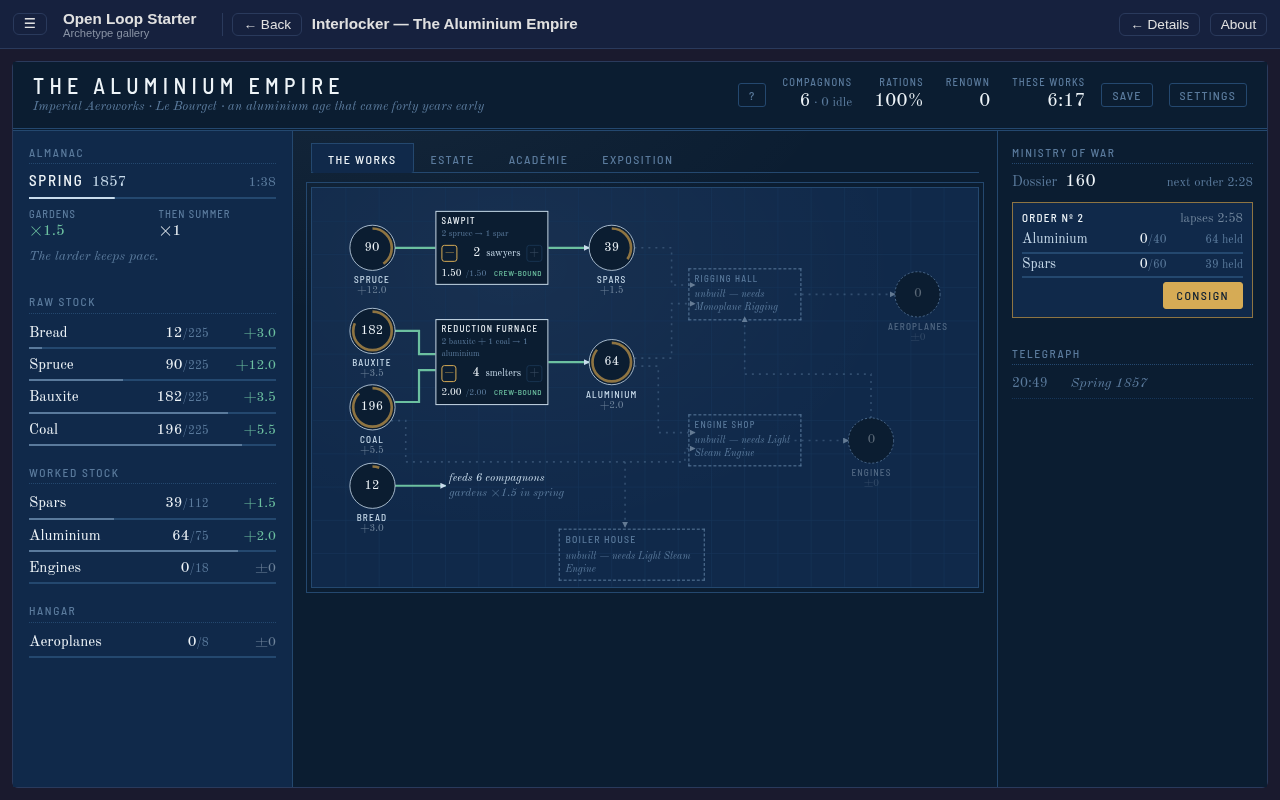
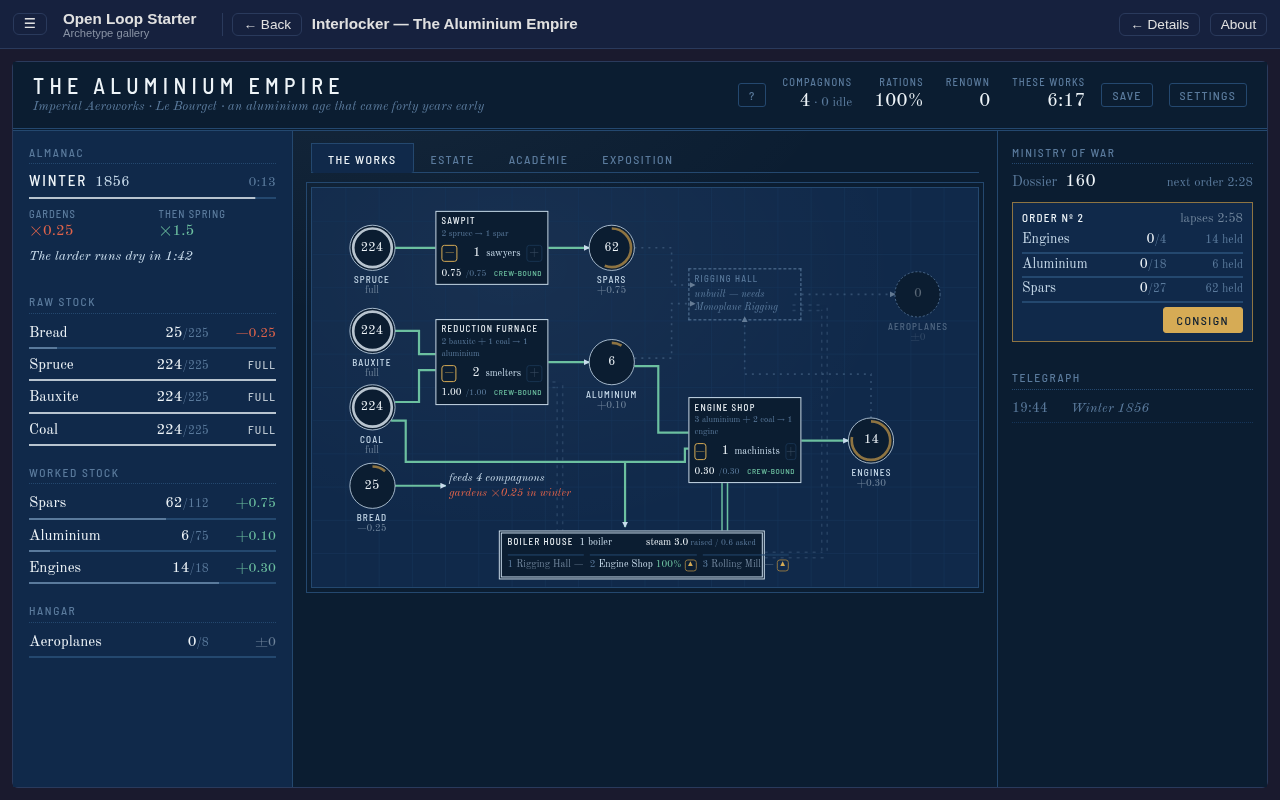
fix(showcase): re-record four stories' beats; interlocker's foreman gardens on winter stock
The beat windows and arc tables are re-recorded from today's probes.

tug: the recorded beats never matched the committed code (3aa285e prints
today's career line for line). chooseWave buys the tithe before troops, and
the opening horn's silver is the whole first tithe, so a tithing keep sends
no opening wave: at Grubb's Ford the Mire's yeomen pin the line 26 or 40
paces out until the mangonels the tithe pays for take it back. The docs now
follow that play. BALANCING states the opening as a trade of ground for
income, Known thin adds the frozen yeomen line, and the eight-seed figures
are re-measured.

interlocker: L'Intendance raises cités, which cost bread, in any season, so
a winter can open on an emptied larder. The foreman sized gardens on a full
larder and the crew ate at 0.40 through three winters. In winter it now
reads the bread in stock over the winter left. Hunger falls to a dip as a
winter opens; the charter probe's model error is 9.1% (was 10.1%). Beat
windows from the probe at 0.25–2 s ticks, saves re-written, shots recaptured.

skirmish, cycler: re-recorded only. Skirmish moved with the economy commits
after its beats were taken; cycler with the phase-clock fix (22d6cc9).

Closes #53

diff --git a/src/showcase/archetypes/interlocker/balance/_foreman.ts b/src/showcase/archetypes/interlocker/balance/_foreman.ts
@@ -6,9 +6,9 @@
  * with the shipping policies of `../modules/automation.ts`. The runner, `createForeman`,
  * works only what stays the player's; the arc runs it, and so does the games site's beat
  * script:
- * - it raises a market garden while the gardens at winter's yield, with a full larder,
- *   cannot carry the crew through a season, and a Boiler House while the boilers fall
- *   short of what is drawn;
+ * - it raises a market garden while the gardens at winter's yield cannot carry the crew
+ *   through a season on a full larder, or, in winter, through the rest of it on the bread
+ *   in stock; and a Boiler House while the boilers fall short of what is drawn;
  * - it delivers every Ministry order the bins can fill;
  * - it stages the Exposition once the jury sits and the medal reaches the one the spine
  *   predicts this empire's run shows (`medalFor`);
@@ -156,11 +156,12 @@ export function createForeman(start?: ArcOptions['start']): Foreman {
     const farm = works.buildings.getPurchasable('farm')!;
     const perFarm = (works.yieldEach('farm') / calendar.yield.value) * SEASON_YIELD.winter;
     const ration = works.workersTotal.value * UPKEEP_PER_WORKER;
-    if (
-      owned('farm') * perFarm + works.cap.bread.value / SEASON_SECONDS < ration &&
-      farm.canPurchase.value
-    )
-      farm.purchase(1);
+    // In winter the larder is what the steward's cités left of it, over the winter left.
+    const larder =
+      calendar.season.value === 'winter'
+        ? toNumber(works.res.bread.value) / Math.max(calendar.remaining.value, 1)
+        : works.cap.bread.value / SEASON_SECONDS;
+    if (owned('farm') * perFarm + larder < ration && farm.canPurchase.value) farm.purchase(1);
     const boiler = works.buildings.getPurchasable('boiler')!;
     if (works.steam.demand > works.steam.supply && boiler.visible.value && boiler.canPurchase.value)
       boiler.purchase(1);

diff --git a/src/showcase/archetypes/tug/manifest.ts b/src/showcase/archetypes/tug/manifest.ts
@@ -2,7 +2,7 @@ import type { ArchetypeManifest } from '@/types';
 
 /**
  * Beat windows are RECORDED from `balance/career-probe.ts` (seed 1) under the reference
- * marshal, never authored as targets; the first two are from that run's first battle. One
+ * marshal, never authored as targets; the first three are from that run's first battle. One
  * seeded run is the measurement, so each window is a single time. Re-record them after any
  * spine change.
  */
@@ -29,18 +29,18 @@ export const manifest: ArchetypeManifest = {
   beats: [
     {
       n: 1,
-      label: 'The opening horn: the lines meet at the middle',
-      recordedFireTimeRange: [20, 20],
+      label: "The opening horn: Fairhold tithes, and the Mire's yeomen pin the line",
+      recordedFireTimeRange: [22, 22],
     },
-    { n: 2, label: 'The engineers arrive: the first mangonel', recordedFireTimeRange: [120, 120] },
+    { n: 2, label: 'The engineers arrive: the first mangonel', recordedFireTimeRange: [130, 130] },
     { n: 3, label: "Grubb's Ford falls: the first victory", recordedFireTimeRange: [193, 193] },
-    { n: 4, label: 'The bowmen take the field at the Mudhole', recordedFireTimeRange: [385, 385] },
-    { n: 5, label: 'Fire-pots on the walls', recordedFireTimeRange: [1777, 1777] },
-    { n: 6, label: 'Lady Vesk, who answers every horn', recordedFireTimeRange: [2240, 2240] },
+    { n: 4, label: 'The bowmen take the field at the Mudhole', recordedFireTimeRange: [967, 967] },
+    { n: 5, label: 'Fire-pots on the walls', recordedFireTimeRange: [2121, 2121] },
+    { n: 6, label: 'Lady Vesk, who answers every horn', recordedFireTimeRange: [2846, 2846] },
     {
       n: 7,
       label: 'The Stolen Throne falls: the ending',
-      recordedFireTimeRange: [6381, 6381],
+      recordedFireTimeRange: [7119, 7119],
     },
   ],
   shell: 'ColumnShell · topBar',

diff --git a/src/showcase/archetypes/interlocker/manifest.ts b/src/showcase/archetypes/interlocker/manifest.ts
@@ -33,14 +33,14 @@ export const manifest: ArchetypeManifest = {
     { n: 5, label: 'Bonded Warehousing', recordedFireTimeRange: [337, 354] },
     { n: 6, label: 'The Light Steam Engine', recordedFireTimeRange: [378, 388] },
     { n: 7, label: 'The first Boiler House', recordedFireTimeRange: [387, 398] },
-    { n: 8, label: 'Monoplane Rigging', recordedFireTimeRange: [560, 602] },
-    { n: 9, label: 'The first aeroplane', recordedFireTimeRange: [570, 610] },
-    { n: 10, label: 'The first Exposition', recordedFireTimeRange: [874, 912] },
-    { n: 11, label: 'The first Ministry order delivered', recordedFireTimeRange: [980, 1168] },
-    { n: 12, label: 'Every charter held', recordedFireTimeRange: [2004, 2052] },
-    { n: 13, label: 'Le Contremaître employed', recordedFireTimeRange: [2418, 2460] },
-    { n: 14, label: 'The tenth Exposition', recordedFireTimeRange: [4643, 4722] },
-    { n: 15, label: 'The Grand Prix', recordedFireTimeRange: [6361, 7340] },
+    { n: 8, label: 'Monoplane Rigging', recordedFireTimeRange: [538, 542] },
+    { n: 9, label: 'The first aeroplane', recordedFireTimeRange: [544, 546] },
+    { n: 10, label: 'The first Exposition', recordedFireTimeRange: [797, 824] },
+    { n: 11, label: 'The first Ministry order delivered', recordedFireTimeRange: [903, 1056] },
+    { n: 12, label: 'Every charter held', recordedFireTimeRange: [1836, 1922] },
+    { n: 13, label: 'Le Contremaître employed', recordedFireTimeRange: [2246, 2340] },
+    { n: 14, label: 'The tenth Exposition', recordedFireTimeRange: [4500, 4576] },
+    { n: 15, label: 'The Grand Prix', recordedFireTimeRange: [6167, 6957] },
   ],
   shell: 'ColumnShell · left + right',
   formFactor: 'desktop',

diff --git a/src/showcase/archetypes/skirmish/manifest.ts b/src/showcase/archetypes/skirmish/manifest.ts
@@ -35,12 +35,12 @@ export const manifest: ArchetypeManifest = {
   ],
   beats: [
     { n: 1, label: 'Moth, your fixer, takes the job', recordedFireTimeRange: [0, 0] },
-    { n: 2, label: 'The first training floor: the Chop shop', recordedFireTimeRange: [112, 112] },
-    { n: 3, label: 'The first Razorboy hits the street', recordedFireTimeRange: [132, 132] },
-    { n: 4, label: 'Neon Narrows answers to your crew', recordedFireTimeRange: [177.5, 177.5] },
-    { n: 5, label: 'The first clash in the districts', recordedFireTimeRange: [201, 201] },
-    { n: 6, label: 'Your first assault on their safehouse', recordedFireTimeRange: [332.5, 332.5] },
-    { n: 7, label: 'The Gutter Saints’ safehouse burns', recordedFireTimeRange: [392, 392] },
+    { n: 2, label: 'The first training floor: the Chop shop', recordedFireTimeRange: [51, 51] },
+    { n: 3, label: 'The first Razorboy hits the street', recordedFireTimeRange: [71, 71] },
+    { n: 4, label: 'Neon Narrows answers to your crew', recordedFireTimeRange: [116.5, 116.5] },
+    { n: 5, label: 'The first clash in the districts', recordedFireTimeRange: [129, 129] },
+    { n: 6, label: 'Your first assault on their safehouse', recordedFireTimeRange: [312, 312] },
+    { n: 7, label: 'The Gutter Saints’ safehouse burns', recordedFireTimeRange: [378.5, 378.5] },
   ],
   shell: 'ColumnShell · topBar + left + right · fixed',
   formFactor: 'responsive',

diff --git a/src/showcase/archetypes/cycler/manifest.ts b/src/showcase/archetypes/cycler/manifest.ts
@@ -34,32 +34,32 @@ export const manifest: ArchetypeManifest = {
     {
       n: 2,
       label: 'The first spray: screens behind the struck side',
-      recordedFireTimeRange: [456, 456],
+      recordedFireTimeRange: [460, 460],
     },
     {
       n: 3,
       label: 'The gale backs: walls round the corner',
-      recordedFireTimeRange: [624, 624],
+      recordedFireTimeRange: [630, 630],
     },
     {
       n: 4,
       label: 'The light goes out: the logbook pays',
-      recordedFireTimeRange: [1491, 1491],
+      recordedFireTimeRange: [1508, 1508],
     },
     {
       n: 5,
       label: 'Posted to the Flannans',
-      recordedFireTimeRange: [6815, 6815],
+      recordedFireTimeRange: [6892, 6892],
     },
     {
       n: 6,
       label: 'The relief signalled: a lesser close',
-      recordedFireTimeRange: [7653, 7653],
+      recordedFireTimeRange: [7739, 7739],
     },
     {
       n: 7,
       label: 'The light holds through the final gale: the end beat',
-      recordedFireTimeRange: [9326, 9326],
+      recordedFireTimeRange: [9430, 9430],
     },
   ],
   shell: 'ColumnShell · left',

diff --git a/src/showcase/archetypes/interlocker/shots/beat-saves.ts b/src/showcase/archetypes/interlocker/shots/beat-saves.ts
@@ -33,8 +33,8 @@ const planes = () => toNumber(works.res.aeroplanes.value as unknown as number);
 
 /** In beat order: the file stem, and the moment it is saved at. */
 const BEATS: { file: string; at: () => boolean }[] = [
-  // The first aeroplane is built in the winter of 1855, with the crew hungry; this is the
-  // first moment of the run with one in the hangar and the crew fed.
+  // The first aeroplane is built in the winter of 1855, when the larder runs thinnest;
+  // this is the first moment of the run with one in the hangar and the crew fed.
   {
     file: '1-aeroplane',
     at: () => expo.cycle.count.value === 0 && planes() >= 1 && works.fed.value >= 1,

diff --git a/src/showcase/archetypes/tug/shots/beat-saves.ts b/src/showcase/archetypes/tug/shots/beat-saves.ts
@@ -32,7 +32,7 @@ const has = (troop: string) => g.causeway.members.value.some((m) => m.troop === 
 
 /** In beat order: the file stem, and the moment it is saved at. */
 const BEATS: { file: string; at: () => boolean }[] = [
-  // Grubb's Ford, the first battle: yeomen against yeomen, the lines met at the middle.
+  // Grubb's Ford, the first battle: yeomen against yeomen, the line pinned under our cover.
   { file: '1-ford', at: () => onField('Grubb’s Ford') && g.causeway.clock.value >= 40 },
   // The Mudhole, bowmen on both sides: the line held past the middle, a mangonel throwing.
   {

diff --git a/src/showcase/archetypes/tug/BALANCING.md b/src/showcase/archetypes/tug/BALANCING.md
@@ -49,8 +49,15 @@ steps; the weapons' charge and strength; champions' strength; the fields and twi
 - **Strength boons have no limit; the lords stop growing at the Stolen Throne.** A run of
   defeats still pays renown, renown buys strength, so no seed meets a wall. Past the ending
   the heirs stand at the last lord's strength and grow no harder.
-- **The opening horn sounds for both keeps together.** If one keep's opening wave marched
-  alone, the lines would first meet under the other's cover. After it the horns alternate.
+- **The opening horn sounds for both keeps together, but a tithe comes before troops.** A
+  keep whose opening wave marches alone meets the other's first wave under that keep's cover.
+  `chooseWave` buys the tithe first, and the opening horn's silver is the whole first tithe.
+  So a temperament that tithes sends no opening wave, and gives ground for income. At
+  Grubb's Ford the marshal does: the Mire's yeomen pin the line 26 or 40 paces out, by which
+  keep leads the horns. The mangonels the tithe pays for take it back. Hold the tithe past
+  the opening horn and its payback window closes before the silver returns. The lines then
+  meet at the middle, but that battle closes on the season and is lost. After the opening
+  the horns alternate.
 - **An early horn restarts its keep's schedule.** It is open half a period after a horn, and
   costs half the silver the waiting seconds would pay. A lord sounds early only to answer a
   wave an open troop beats.
@@ -89,10 +96,16 @@ Each runs in seconds; the header of each says how to read it.
   meets a bow line, not in the members' stats. Bowmen at double spend keep 56% against 78%.
 - **The reference marshal never raises the Stone Curtain.** The strength boons have no limit
   and it prefers them, so the curtain's worth is unmeasured.
-- **The arc is steep in `ladder/boonsPerField`.** Over eight seeds, 0.8 puts the ending near
-  1:49 and 0.85 near 1:54–2:12; the spread across seeds is about ±15 minutes.
-- **The lords' keeps take three to four battles,** the Twin Sties and the Spyglass the most.
-  Outlying fields take one to three.
+- **Yeomen against yeomen, the line does not move.** Two hosts at their musters replace
+  their losses as fast as they take them, so the line stands where it first met. At Grubb's
+  Ford it stands until the mangonels come, and only a harvest surplus raises them. At equal
+  harvests that battle closes on the season.
+- **The arc is steep in `ladder/boonsPerField`.** Over eight seeds, 0.8 puts the ending
+  between 1:31 and 1:48, and 0.85 between 1:22 and 2:05. The spread across seeds is wider
+  than the step between the two.
+- **A field can take many battles.** Over eight seeds an outlying field takes one to five,
+  and a keep one to eight: the Spyglass, the Twin Sties and the Stolen Throne the most. The
+  career probe reads one or two, and three or four, as healthy.
 - **Fire-pot mirrors close on the season.** On the open field both seats mount fire-pots,
   and only 5 of 72 battles breach; a feast day lifts that to 46. In the career, where the
   weapons differ, almost every battle breaches.

diff --git a/src/showcase/archetypes/interlocker/BALANCING.md b/src/showcase/archetypes/interlocker/BALANCING.md
@@ -79,6 +79,9 @@ Every key is read at its reader site through `tunable()`; the registry is in
   `0.75 · crew · upkeep · 150`, is what the larder must hold. The plan's gardens cover the
   ration at the mean season and at least a winter on a full larder. L'Intendance builds
   neither winter's gardens nor boilers: the seasons and the shed order stay the player's.
+- **A cité costs bread, in any season.** L'Intendance raises cités whenever the plan wants
+  one, so a winter can open on a larder the cités emptied. Gardens sized for a full larder
+  then leave the crew hungry until spring. A player gardens against the bread in stock.
 - **The bureaux are a ladder.** Each bureau unlocks the next automation tier, and a tier
   implies those below it, so the bureaux are bought in order. Le Contremaître seats no
   compagnon at a trade short of steam or of bin room, so a works with no boilers shows
@@ -125,16 +128,17 @@ Every key is read at its reader site through `tunable()`; the registry is in
   Crédit's stake, the bureaux and the telegraph.
 
 The economy is tick-robust: 0.25 s to 2 s moves an early beat by a few seconds. The
-Grand Prix's window is wider, about 15 minutes, because late medals rise a renown at a
+Grand Prix's window is wider, about 13 minutes, because late medals rise a renown at a
 time and a tick can carry a run across one.
 
 ## Known thin
 
 - **Seasons and steam bind the player, not the reference.** The probe's runner raises a
-  garden whenever a winter would outrun the larder and a boiler whenever steam falls
-  short, so the arc goes hungry or short of steam for a few sampled minutes in two
-  hours. The mechanics bite a player who neglects them, and the spine models neither cost.
-- **The first run is long.** The reference stages its first Exposition at 14 minutes, for
+  garden whenever a winter would outrun the larder, and a boiler whenever steam falls
+  short. In winter it reads the bread in stock, not a full larder. So the arc goes hungry
+  only as a winter opens, and short of steam for a few sampled minutes in two hours. The
+  mechanics bite a player who neglects them, and the spine models neither cost.
+- **The first run is long.** The reference stages its first Exposition at 13 minutes, for
   a medal of 5: a concave payout makes waiting for a fuller exhibit pay, and orders open
   only after it.
 - **Late medals are the Ministry's.** From the mid-arc the dossier is about nine tenths

diff --git a/src/showcase/archetypes/cycler/IDENTITY.md b/src/showcase/archetypes/cycler/IDENTITY.md
@@ -68,15 +68,15 @@ measures beside `cycler-projection.ts`.
 | Beat | Recorded |
 |---|---|
 | Night one: the first gale | 2:00 |
-| The first spray: screens behind the struck side | night 3, 7:36 |
-| The gale backs: walls round the corner | night 4, 10:24 |
-| The light goes out: the logbook pays | 24:51, 8 nights |
-| Posted to the Flannans | watch 6, 1:53:35 |
-| The relief signalled: a lesser close | 2:07:33 |
-| The light holds through the final gale: the end beat | watch 8, 2:35:26 |
+| The first spray: screens behind the struck side | night 3, 7:40 |
+| The gale backs: walls round the corner | night 4, 10:30 |
+| The light goes out: the logbook pays | 25:08, 8 nights |
+| Posted to the Flannans | watch 6, 1:54:52 |
+| The relief signalled: a lesser close | 2:08:59 |
+| The light holds through the final gale: the end beat | watch 8, 2:37:10 |
 
-A watch runs 22–28 minutes and 7–9 nights. The keeper buys three levels of stone and the
-charters by about 1:55; over ten seeds the light holds between 2:05 and 2:38, seven times on
+A watch runs 22–25 minutes and 7–8 nights. The keeper buys three levels of stone and the
+charters by about 1:55; over ten seeds the light holds between 2:09 and 2:38, seven times on
 the first watch at the Flannans. Play goes on after either close. `manifest.ts` holds the
 recorded beats.
 

diff --git a/src/showcase/archetypes/tug/IDENTITY.md b/src/showcase/archetypes/tug/IDENTITY.md
@@ -63,16 +63,16 @@ the sway and the close; `career-probe.ts` plays the march under the reference ma
 
 | Beat | Recorded |
 |---|---|
-| The opening horn: the lines meet at the middle | 0:20 |
-| The engineers arrive: the first mangonel | 2:00 |
+| The opening horn: Fairhold tithes, and the Mire's yeomen pin the line | 0:22 |
+| The engineers arrive: the first mangonel | 2:10 |
 | Grubb's Ford falls: the first victory | 3:13 |
-| The bowmen take the field at the Mudhole | 6:25 |
-| Fire-pots on the walls | 29:37 |
-| Lady Vesk, who answers every horn | 37:20 |
-| The Stolen Throne falls: the ending | 1:46:21, 30 battles |
+| The bowmen take the field at the Mudhole | 16:07 |
+| Fire-pots on the walls | 35:21 |
+| Lady Vesk, who answers every horn | 47:26 |
+| The Stolen Throne falls: the ending | 1:58:39, 35 battles |
 
 A battle runs 3–4½ minutes. Over eight seeds the marshal takes the Stolen Throne between
-1:45 and 2:14, in 30–38 battles: outlying fields in one to three, keeps in three to four.
+1:22 and 2:05, in 24–37 battles: outlying fields in one to five, keeps in one to eight.
 `manifest.ts` holds the recorded beats.
 
 ## Growth ports

diff --git a/src/showcase/archetypes/interlocker/IDENTITY.md b/src/showcase/archetypes/interlocker/IDENTITY.md
@@ -85,13 +85,13 @@ winter larder and the boilers are the player's, and the probe's runner provision
 |---|---|
 | The Sawpit Guild patented | 118–120s |
 | The Light Steam Engine; the first Boiler House | 378–398s |
-| The first aeroplane | 570–610s |
-| The first Exposition | 874–912s |
-| The first Ministry order delivered | 980–1168s |
-| Every charter held | 2004–2052s |
-| Le Contremaître employed | 2418–2460s |
-| The tenth Exposition | 4643–4722s |
-| The Grand Prix (spine: spring 1867, 7200s) | 6361–7340s |
+| The first aeroplane | 544–546s |
+| The first Exposition | 797–824s |
+| The first Ministry order delivered | 903–1056s |
+| Every charter held | 1836–1922s |
+| Le Contremaître employed | 2246–2340s |
+| The tenth Exposition | 4500–4576s |
+| The Grand Prix (spine: spring 1867, 7200s) | 6167–6957s |
 
 Ranges are the arc probe at tick sizes 0.25 s to 2 s. `manifest.ts` holds every beat.
 
